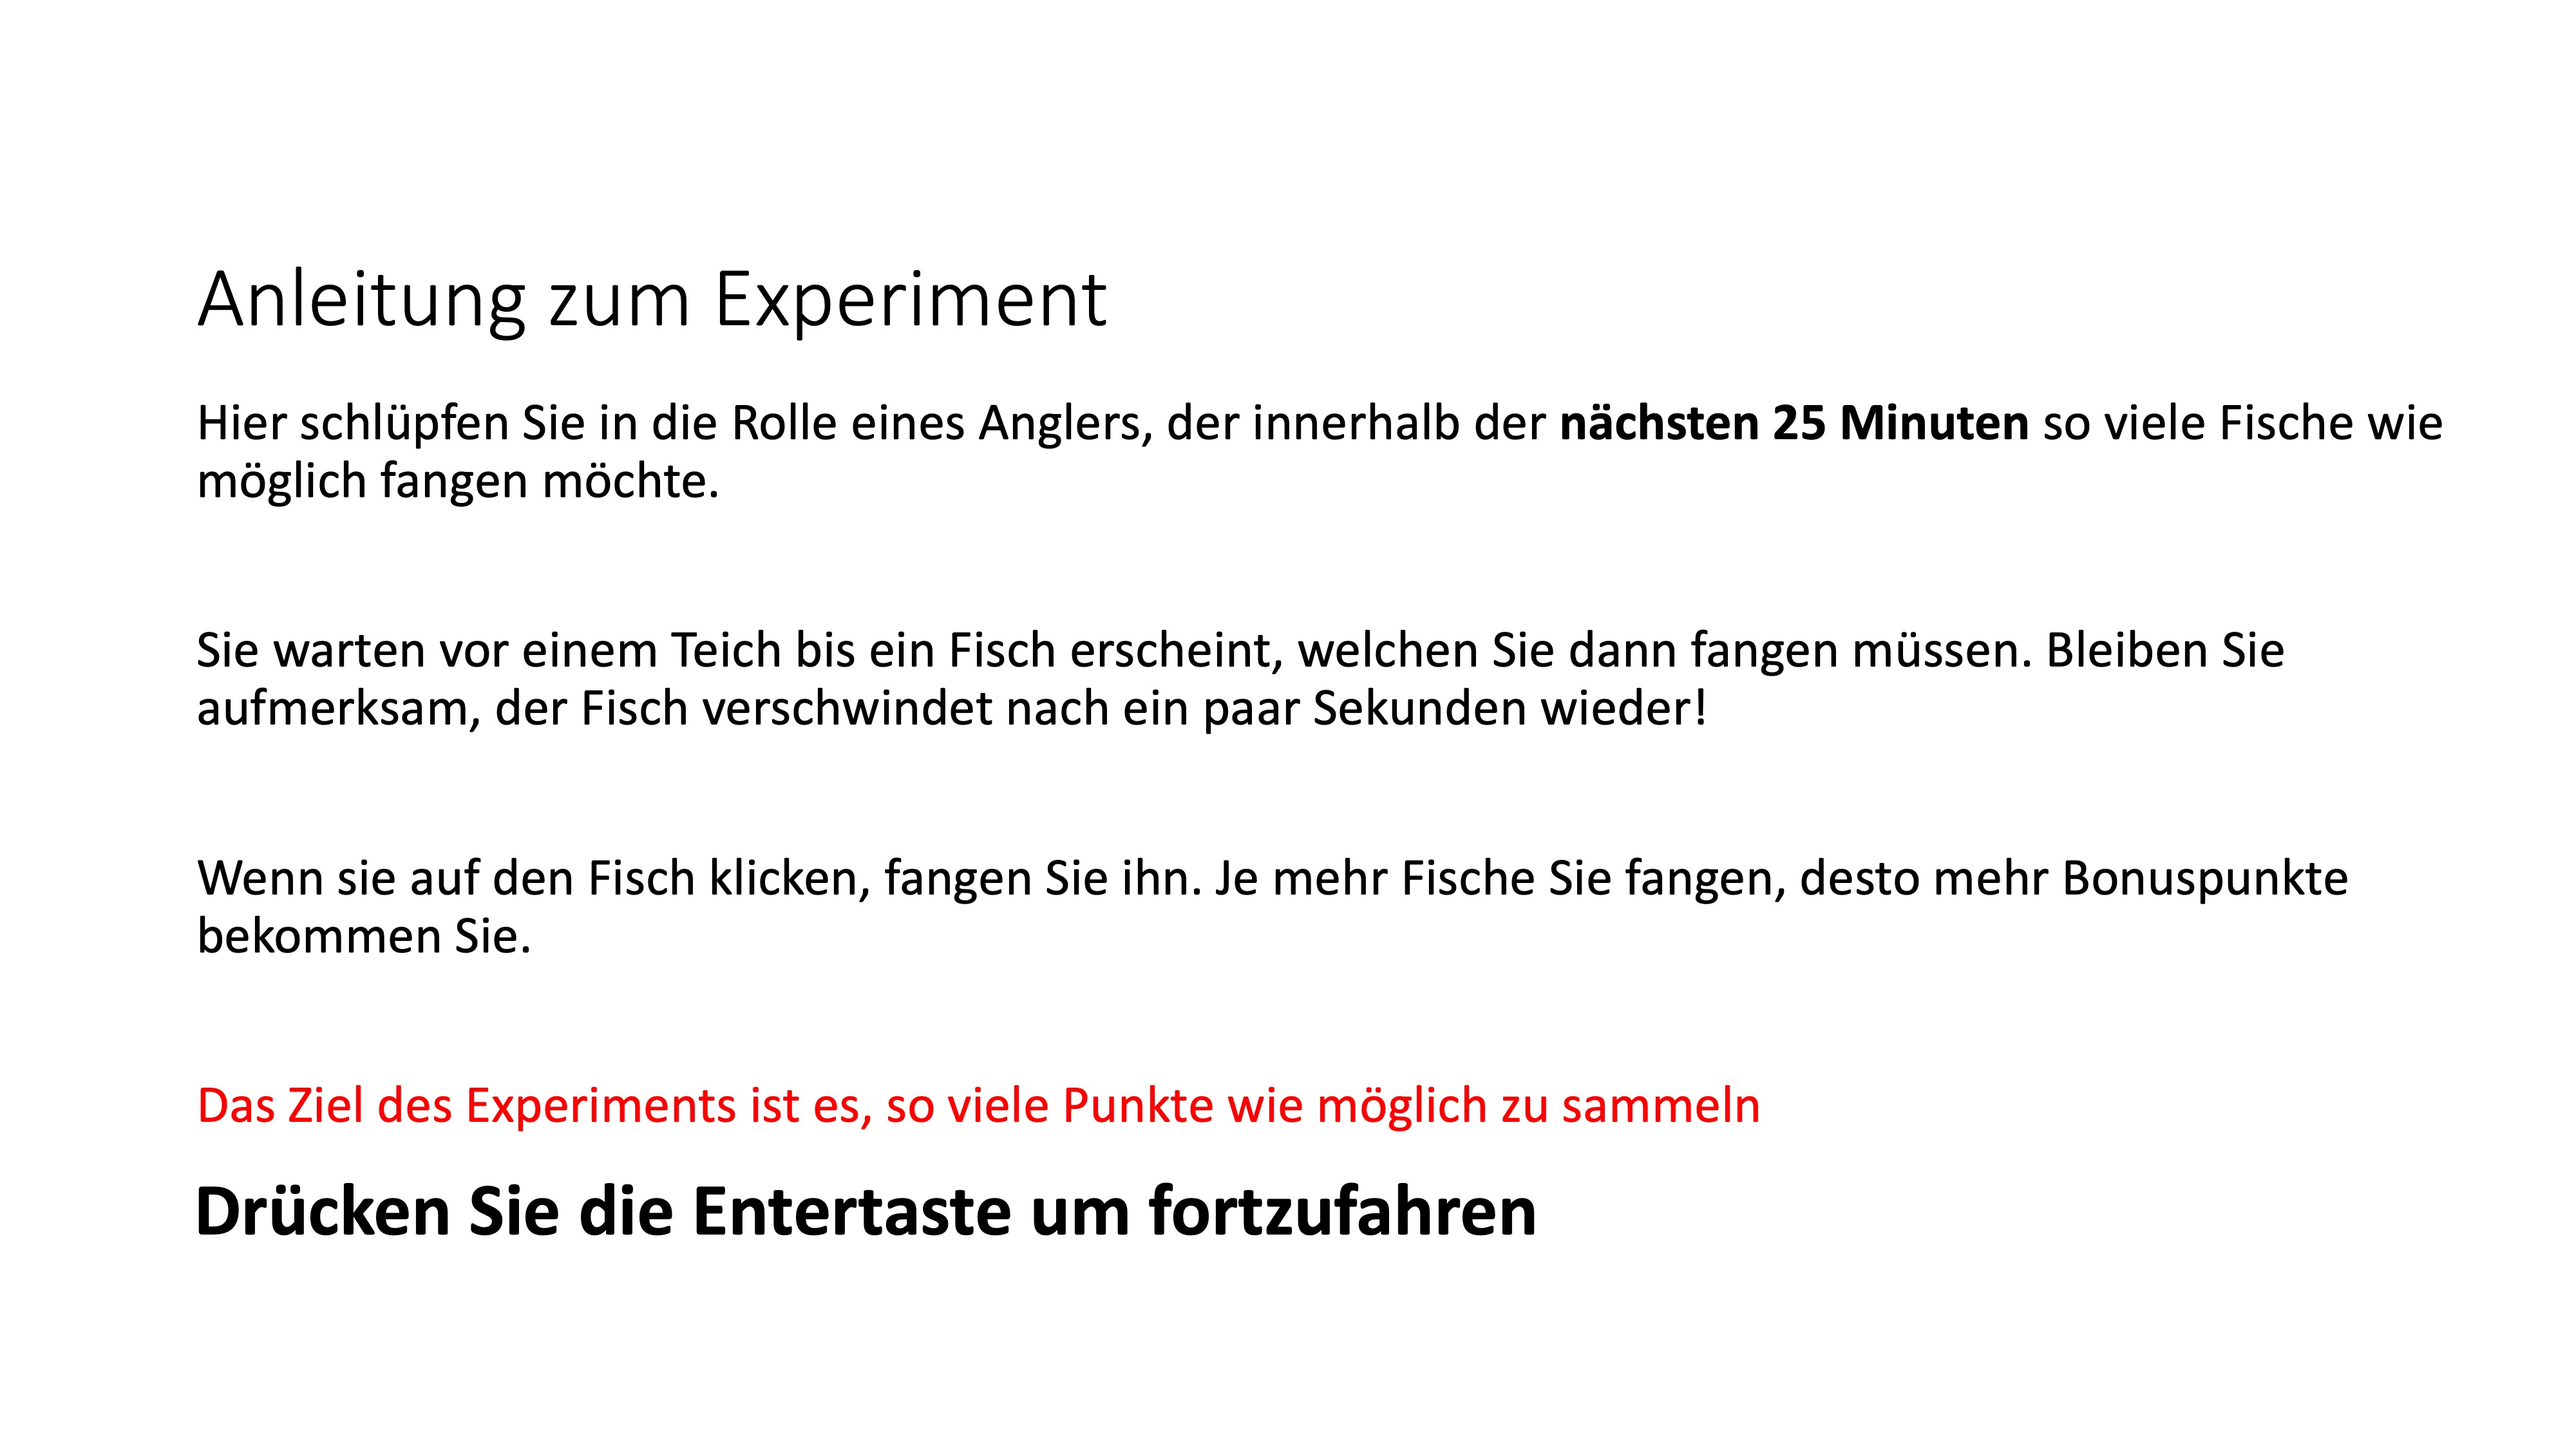
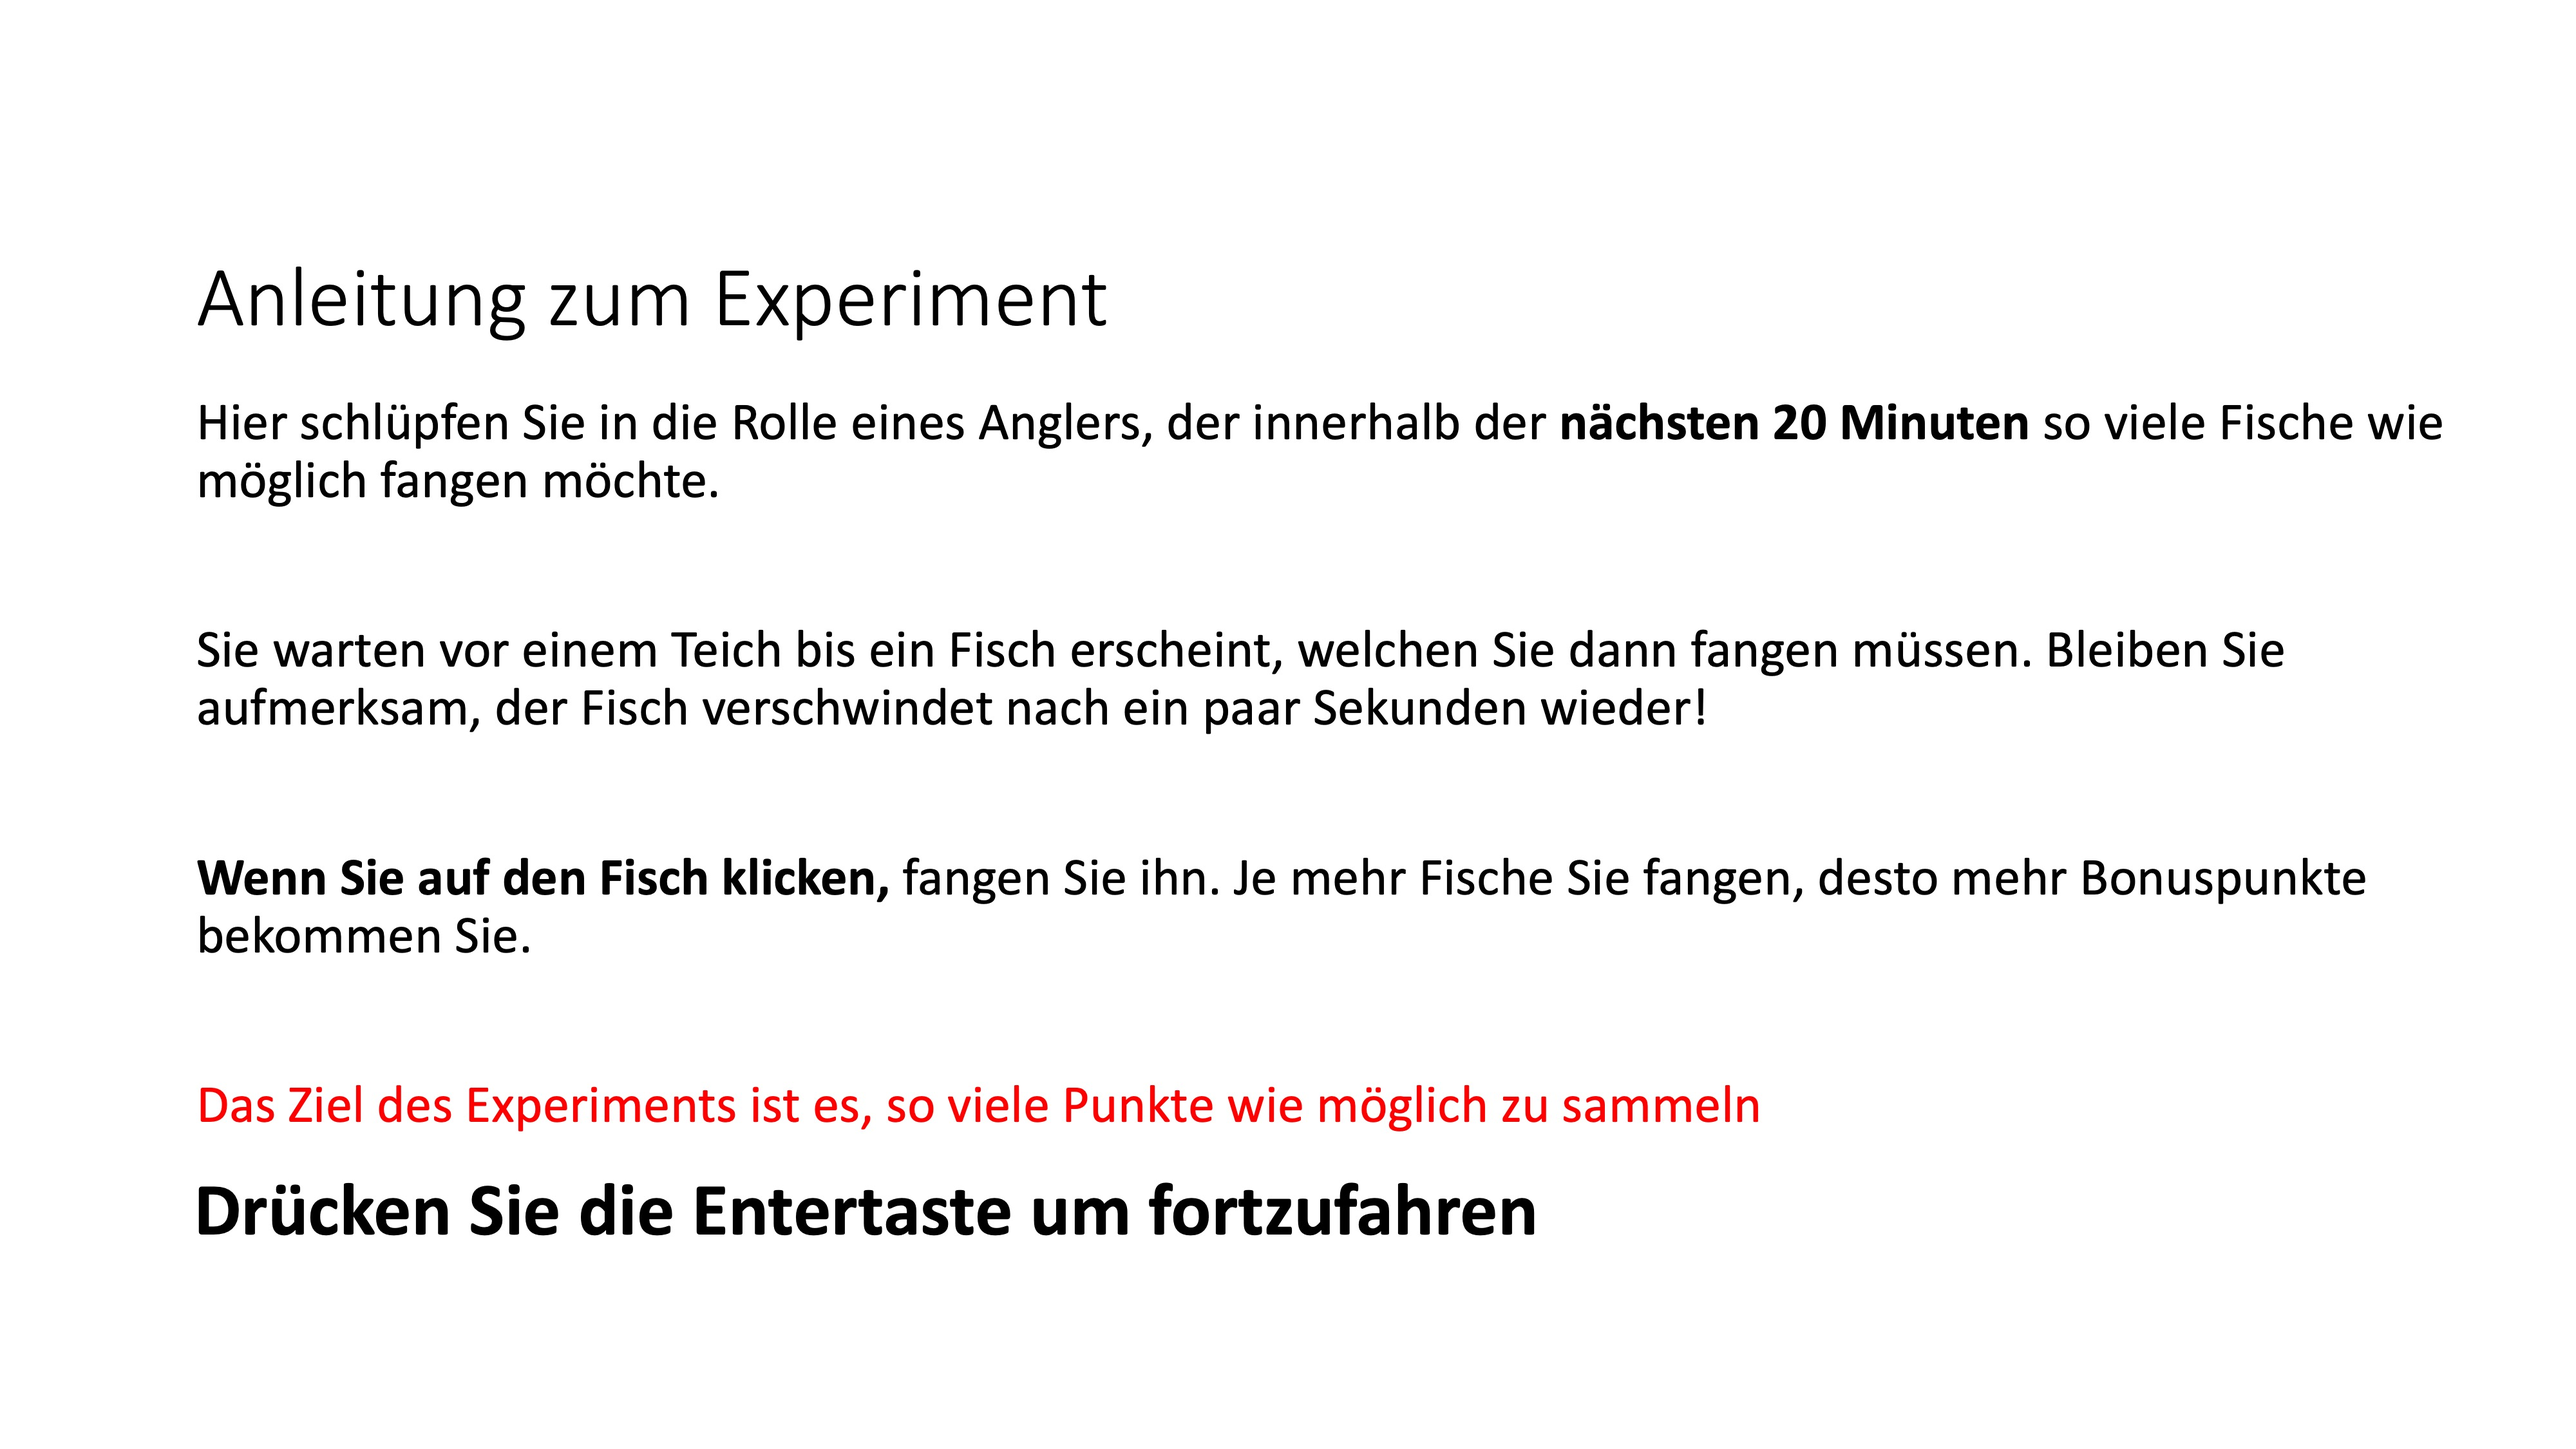
make it shorter

Changed region(s): [[0.0938, 0.5911, 0.9375, 0.6222]]

diff --git a/experiment.js b/experiment.js
@@ -351,7 +351,7 @@ var bonuspoints = 0
 
 // task specific variables
 var num_practice_rounds = 1
-var num_fish_in_ponds = [17, 2, 8, 1, 4, 11, 6, 5, 6, 2, 6, 4, 5, 6, 6, 2, 17, 3, 8, 3, 8, 23, 5, 13, 7, 3, 8, 7, 2, 5, 8,
+var num_fish_in_ponds_base = [17, 2, 8, 1, 4, 11, 6, 5, 6, 2, 6, 4, 5, 6, 6, 2, 17, 3, 8, 3, 8, 23, 5, 13, 7, 3, 8, 7, 2, 5, 8,
     5, 15, 4, 6, 9, 5, 7, 6, 8, 3, 7, 15, 10, 12, 7, 5, 8, 2, 11, 16, 7, 4, 5, 13, 11, 3, 7, 5, 2, 12,
     3, 7, 2, 7, 5, 7, 4, 6, 4, 1, 8, 17, 5, 7, 2, 7, 8, 5, 3, 5, 2, 8, 10, 6, 9, 10, 6, 10, 7, 12,
     7, 11, 6, 5, 8, 3, 4, 10, 12, 7, 9, 4, 5, 5, 3, 2, 5, 6, 8, 4, 4, 5, 12, 11, 11, 6, 6, 8, 12, 4,
@@ -687,11 +687,12 @@ var num_fish_in_ponds = [17, 2, 8, 1, 4, 11, 6, 5, 6, 2, 6, 4, 5, 6, 6, 2, 17, 3
 ]
 //var num_fish_in_ponds = jsPsych.randomization.shuffle(num_fish_in_ponds)
 var indx_fish_curr_pond = 0
-num_fish_in_ponds[0]=23
+num_fish_in_ponds_base[0]=10
+let num_fish_in_ponds = num_fish_in_ponds_base.map(element => element + 2);//add 2 more fish
 var num_fish_curr_pond = num_fish_in_ponds[indx_fish_curr_pond]
 var red_fish_num = num_fish_curr_pond
 var num_rounds = 1000//DEBUG:2 change to arbitrarily high number for the experiment to last 25 minutes
-var endTime = 15000000// timeout after 25 minutes
+var endTime = 1200000// timeout after 20 minutes
 var trip_bank = 0
 var tournament_bank = 0
 var total_points = 0 // used to determine bonus pay
